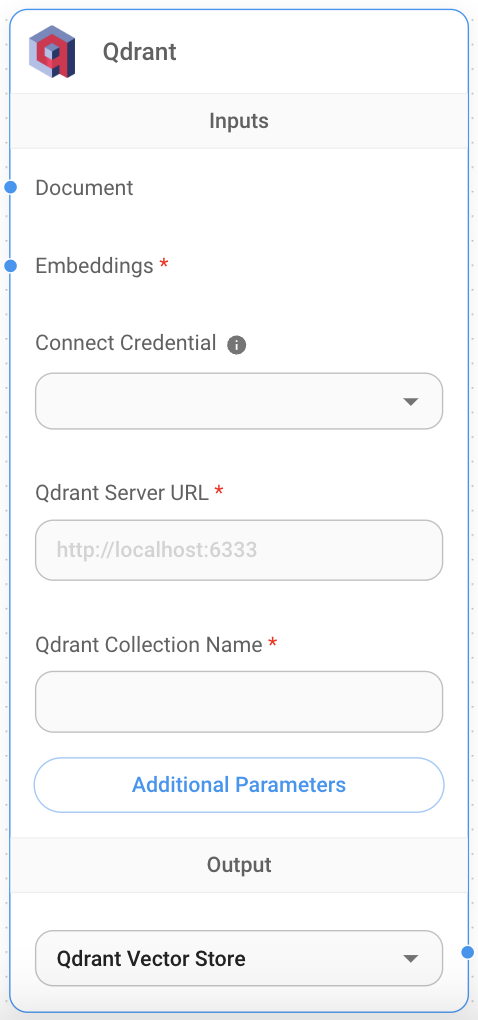
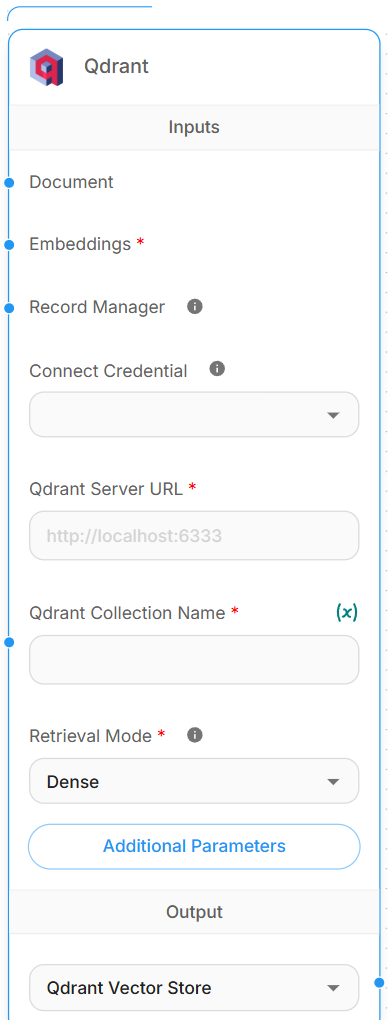
Document Qdrant Retrieval Modes (Dense/Sparse/Hybrid)

diff --git a/en/integrations/langchain/vector-stores/qdrant.md b/en/integrations/langchain/vector-stores/qdrant.md
@@ -25,11 +25,35 @@ To get a Qdrant cloud instance:
 4. Enter the required info into the **Qdrant** node:
    * Qdrant server URL
    * Collection name
+   * Retrieval Mode
 
 <figure><img src="../../../.gitbook/assets/qdrant/3.png" alt="" width="239"><figcaption></figcaption></figure>
 
 5. **Document** input can be connected with any node under [**Document Loader**](../document-loaders/) category.
 6. **Embeddings** input can be connected with any node under [**Embeddings**](../embeddings/) category.
+
+## Retrieval Modes
+
+Dense (embeddings only), Sparse (BM25 only), or Hybrid (both, fused). Defaults to Dense — existing flows are unaffected.
+
+Pick Sparse for keyword-style relevance without embeddings, or Hybrid to combine both signals into one ranked result.
+
+When Retrieval Mode is Sparse or Hybrid, additional fields appear under Additional Parameters:
+
+* Dense Vector Name
+* Sparse Vector Name
+* Sparse Inference Model
+* Fusion Method
+
+<figure><img src="../../../.gitbook/assets/qdrant/4.png" alt="" width="536"><figcaption></figcaption></figure>
+
+Sparse Inference Model defaults to `qdrant/bm25`, the only supported value in this version — changing it is rejected when you run the flow.
+
+Fusion Method only appears in Hybrid mode.
+
+<figure><img src="../../../.gitbook/assets/qdrant/5.png" alt="" width="533"><figcaption></figcaption></figure>
+
+Creating a new collection in Sparse or Hybrid mode automatically configures both a named dense vector and a named sparse vector — no manual collection setup required.
 
 ## Filtering
 
@@ -73,3 +97,4 @@ Then, you want to filter by it. Qdrant supports following [syntax](https://qdran
 * [Qdrant documentation](https://qdrant.tech/documentation/)
 * [LangChain JS Qdrant](https://js.langchain.com/docs/integrations/vectorstores/qdrant)
 * [Qdrant Filter](https://qdrant.tech/documentation/concepts/filtering/#nested-key)
+* [Qdrant Hybrid Queries](https://qdrant.tech/documentation/concepts/hybrid-queries/)
